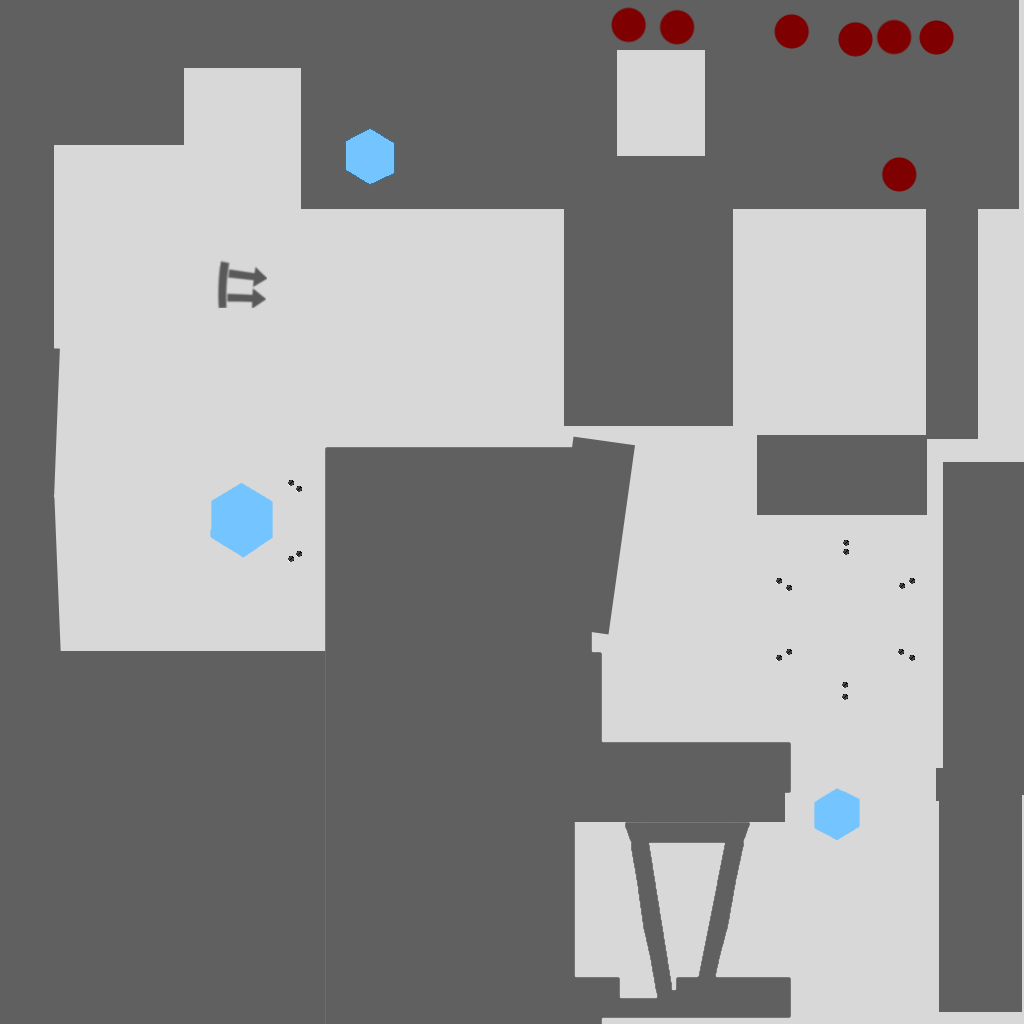
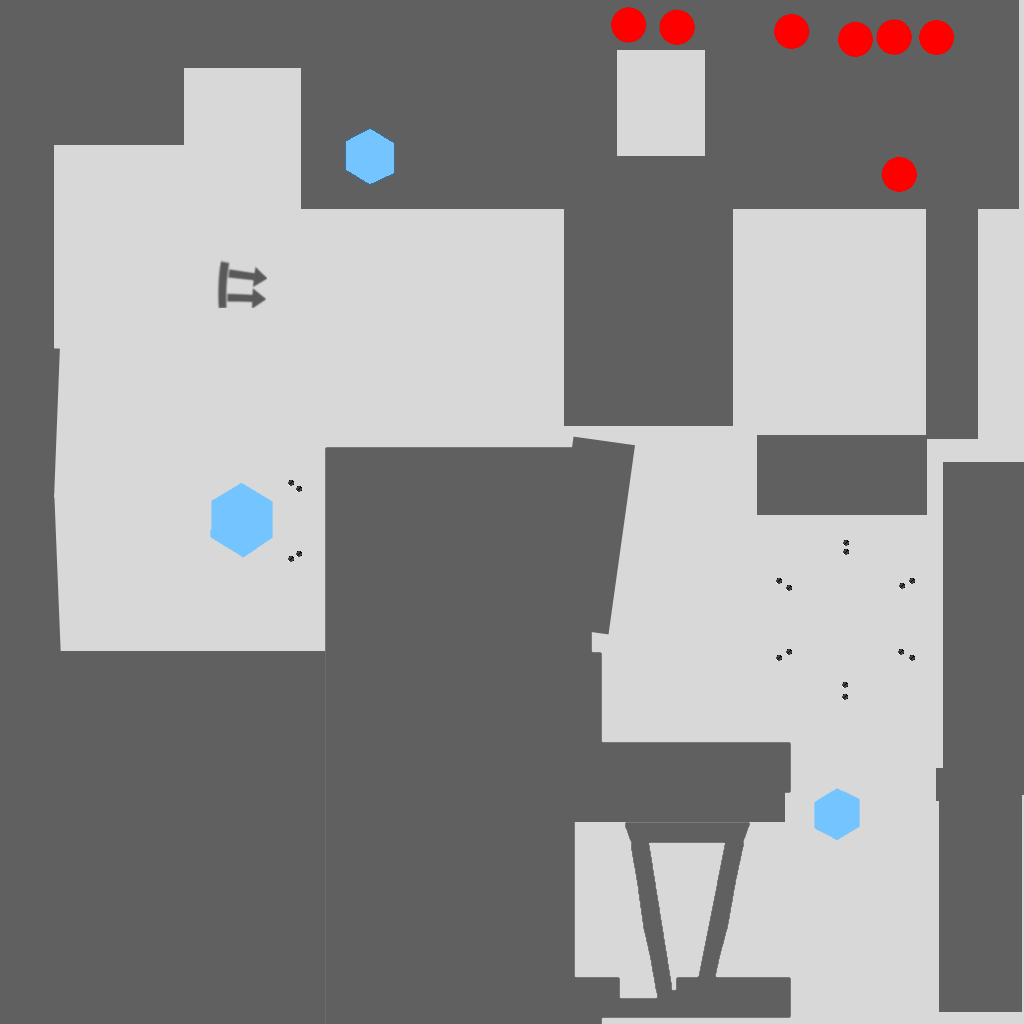
Lens flare, removed tilt shift and dof, general visual tweaks.

Changed region(s): [[0.75, 0.0, 0.9375, 0.0625], [0.5938, 0.0, 0.6875, 0.0625], [0.8438, 0.1562, 0.9062, 0.1875]]

diff --git a/src/kosmos/KosmosRenderer.java b/src/kosmos/KosmosRenderer.java
@@ -25,11 +25,13 @@ import flounder.post.filters.*;
 import flounder.post.piplines.*;
 import flounder.profiling.*;
 import flounder.renderer.*;
+import kosmos.chunks.*;
 import kosmos.entities.*;
 import kosmos.filters.*;
 import kosmos.particles.*;
 import kosmos.shadows.*;
 import kosmos.water.*;
+import kosmos.world.*;
 import org.lwjgl.glfw.*;
 
 import static org.lwjgl.opengl.GL11.*;
@@ -53,8 +55,7 @@ public class KosmosRenderer extends RendererMaster {
 	private PipelineMRT pipelineMRT;
 	private PipelineBloom pipelineBloom;
 	private FilterBlurMotion filterBlurMotion;
-	private PipelineDOF pipelineDOF;
-	private FilterTiltShift filterTiltShift;
+	private FilterLensFlare filterLensFlare;
 	private FilterPixel filterPixel;
 	private FilterCRT filterCRT;
 	private PipelinePaused pipelinePaused;
@@ -81,8 +82,7 @@ public class KosmosRenderer extends RendererMaster {
 		this.pipelineMRT = new PipelineMRT();
 		this.pipelineBloom = new PipelineBloom();
 		this.filterBlurMotion = new FilterBlurMotion();
-		this.pipelineDOF = new PipelineDOF();
-		this.filterTiltShift = new FilterTiltShift(0.6f, 1.1f, 0.005f, 2.0f);
+		this.filterLensFlare = new FilterLensFlare();
 		this.filterPixel = new FilterPixel(4.0f);
 		this.filterCRT = new FilterCRT(new Colour(0.5f, 1.0f, 0.5f), 0.175f, 0.175f, 1024.0f, 0.05f);
 		this.pipelinePaused = new PipelinePaused();
@@ -101,7 +101,7 @@ public class KosmosRenderer extends RendererMaster {
 				if (FlounderGuis.getGuiMaster() != null && !FlounderGuis.getGuiMaster().isGamePaused()) {
 					effect++;
 
-					if (effect > 4) {
+					if (effect > 2) {
 						effect = 0;
 					}
 				}
@@ -139,7 +139,7 @@ public class KosmosRenderer extends RendererMaster {
 		renderPost(FlounderGuis.getGuiMaster().isGamePaused(), FlounderGuis.getGuiMaster().getBlurFactor());
 
 		/* Scene independents. */
-		// renderIndependents();
+		renderIndependents();
 
 		/* Unbinds the FBO. */
 		unbindRelevantFBO();
@@ -179,7 +179,6 @@ public class KosmosRenderer extends RendererMaster {
 	}
 
 	private void renderPost(boolean isPaused, float blurFactor) {
-		boolean independentsRendered = false;
 		pipelineMRT.renderPipeline(rendererFBO);
 		FBO output = pipelineMRT.getOutput();
 
@@ -188,25 +187,15 @@ public class KosmosRenderer extends RendererMaster {
 				break;
 			case 1:
 				pipelineBloom.setBloomThreshold(0.6f);
-				pipelineBloom.renderPipeline(output);
+				pipelineBloom.renderMRT(rendererFBO, output);
 				output = pipelineBloom.getOutput();
-				filterTiltShift.applyFilter(output.getColourTexture(0));
-				output = filterTiltShift.fbo;
-				//filterBlurMotion.applyFilter(output.getColourTexture(0), rendererFBO.getDepthTexture());
-				//output = filterBlurMotion.fbo;
+				filterBlurMotion.applyFilter(output.getColourTexture(0), rendererFBO.getDepthTexture());
+				output = filterBlurMotion.fbo;
+				filterLensFlare.setSunPositon(KosmosWorld.getEntitySun().getPosition());
+				filterLensFlare.applyFilter(output.getColourTexture(0));
+				output = filterLensFlare.fbo;
 				break;
 			case 2:
-				pipelineDOF.renderMRT(rendererFBO, output);
-				output = pipelineDOF.getOutput();
-				break;
-			case 3:
-				filterTiltShift.applyFilter(output.getColourTexture(0));
-				output = filterTiltShift.fbo;
-				break;
-			case 4:
-				/* Scene independents. */
-				renderIndependents();
-				independentsRendered = true;
 				filterPixel.applyFilter(output.getColourTexture(0));
 				output = filterPixel.fbo;
 				filterCRT.applyFilter(output.getColourTexture(0));
@@ -221,11 +210,6 @@ public class KosmosRenderer extends RendererMaster {
 		}
 
 		output.blitToScreen();
-
-		if (!independentsRendered) {
-			/* Scene independents. */
-			renderIndependents();
-		}
 	}
 
 	@Override
@@ -257,8 +241,7 @@ public class KosmosRenderer extends RendererMaster {
 		pipelineMRT.dispose();
 		pipelineBloom.dispose();
 		filterBlurMotion.dispose();
-		pipelineDOF.dispose();
-		filterTiltShift.dispose();
+		filterLensFlare.dispose();
 		filterPixel.dispose();
 		filterCRT.dispose();
 		pipelinePaused.dispose();

diff --git a/src/kosmos/entities/instances/InstanceSun.java b/src/kosmos/entities/instances/InstanceSun.java
@@ -27,7 +27,7 @@ public class InstanceSun extends Entity {
 		super(structure, position, rotation);
 		new ComponentCelestial(this);
 		new ComponentModel(this, 15.0f, model, texture, 0);
-		new ComponentLight(this, new Vector3f(), new Colour(0.7f, 0.7f, 0.7f), new Attenuation(1.0f, 0.0f, 0.0f));
+		new ComponentLight(this, new Vector3f(), new Colour(0.8f, 0.8f, 0.8f), new Attenuation(1.0f, 0.0f, 0.0f));
 		new ComponentSurface(this, 1.0f, 0.0f, true, true);
 		//new ComponentCollider(this);
 		//new ComponentCollision(this);
